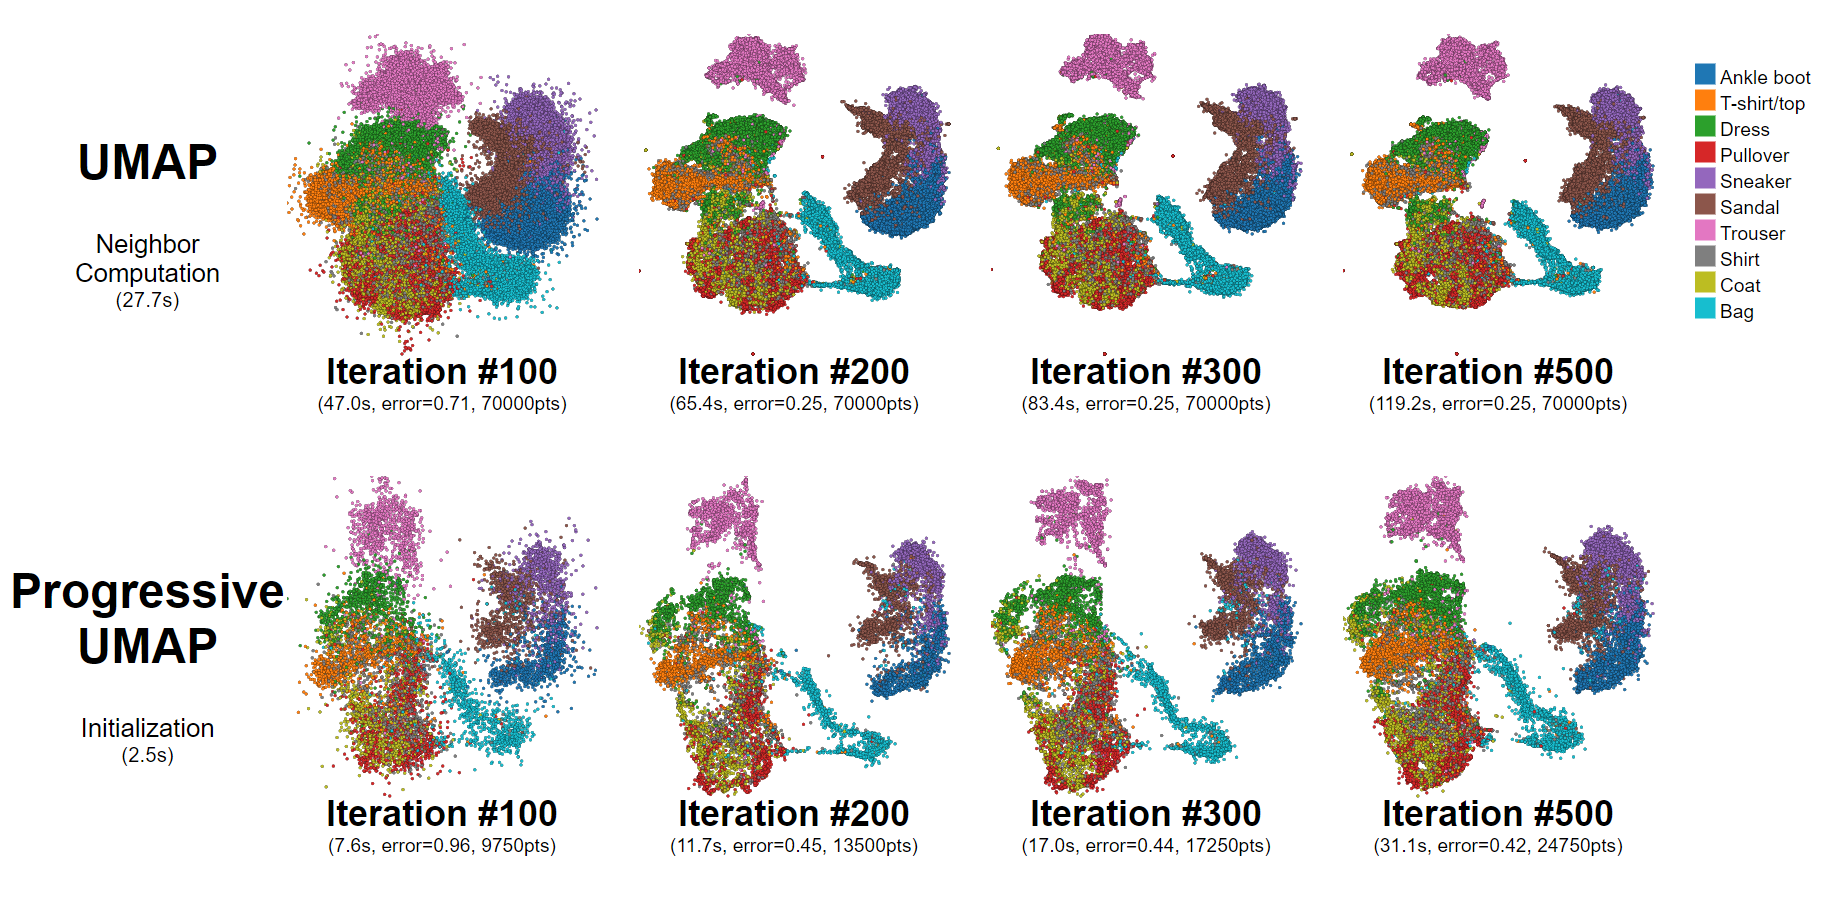
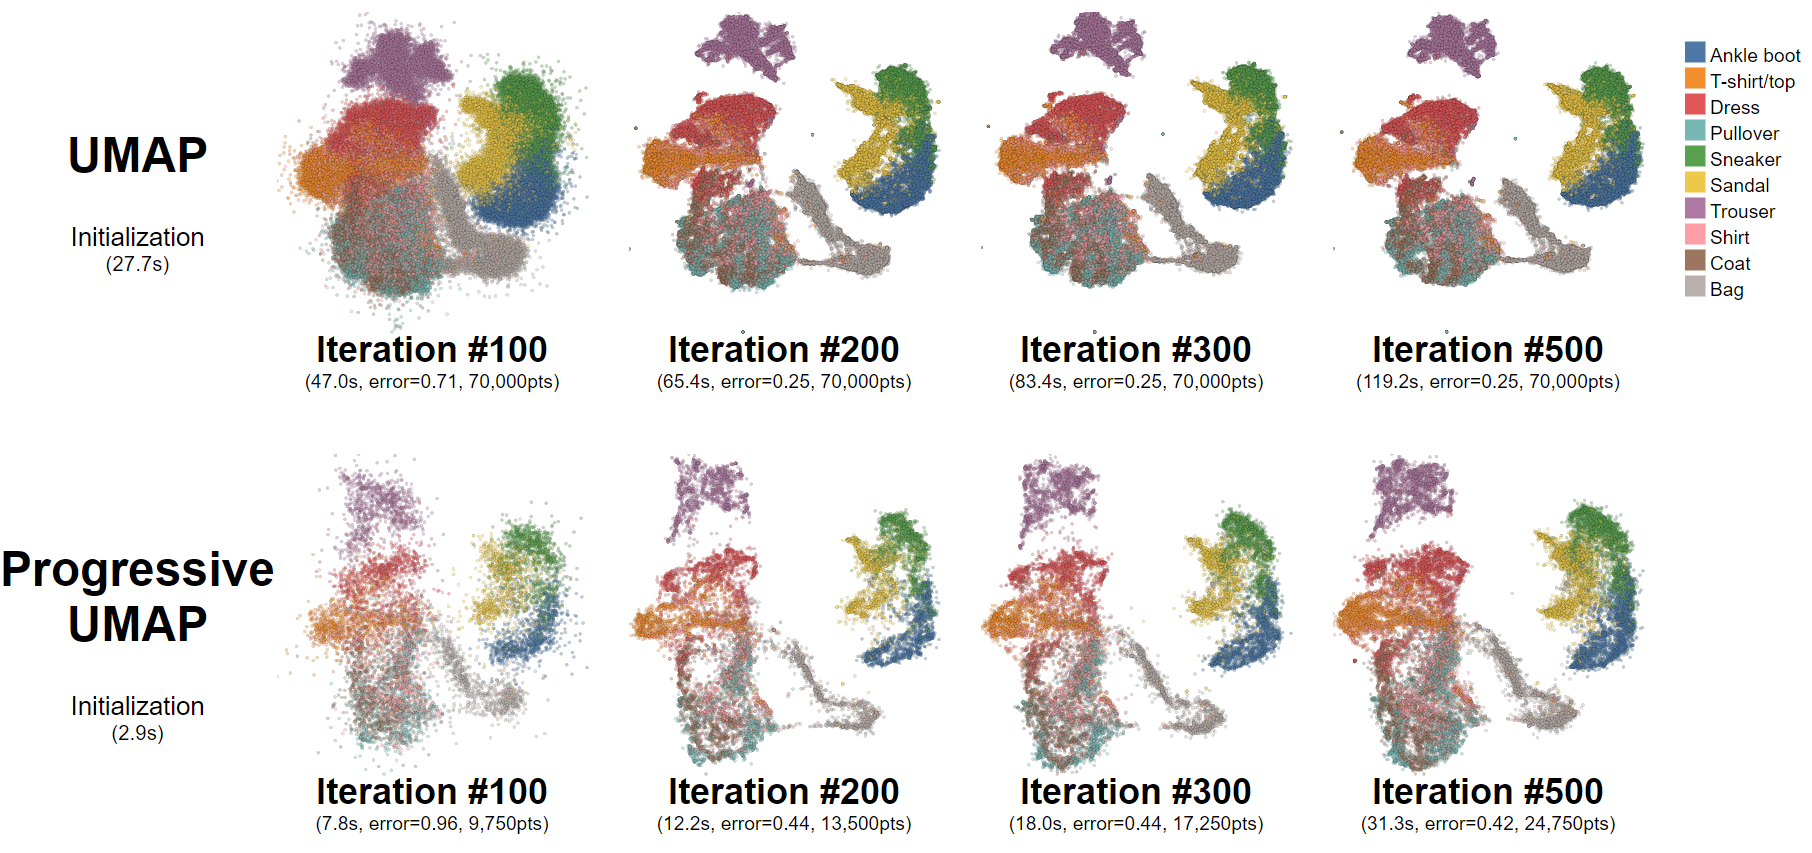
misc

diff --git a/result/compare_vis.html b/result/compare_vis.html
@@ -35,10 +35,9 @@
           UMAP
         </h2>
         <p>
-          Neighbor
+          Initialization
           <br>
-          Computation
-          <br><span style="font-size:0.8em">(<span id="umap_init"></span>s)</span>
+          <span style="font-size:0.8em">(<span id="umap_init"></span>s)</span>
         </p>
       </td>
       <td><svg id="umap100"></svg></td>
@@ -133,6 +132,7 @@
         .append('circle')
           .attr('r', 1.5)
           .style('fill', (d, i) => color(labels[i]))
+          .style('opacity', 0.4)
           .attr('stroke', 'black')
           .attr('stroke-width', '0.03px')
           .attr('cx', d => x(d.x1))
@@ -209,7 +209,7 @@
       .style('font-size', '1.2em')
       .style('font-family', 'Helvetica')
       .attr('transform', translate(width / 2, height + label_height + 28))
-      .text('(' + d3.format(',.1f')(time) + 's, error=' + d3.format('.2f')(error) + ', ' + numpts + 'pts)')
+      .text('(' + d3.format(',.1f')(time) + 's, error=' + d3.format('.2f')(error) + ', ' + d3.format(',')(numpts) + 'pts)')
 
   }
 

diff --git a/umap/umap_panene.py b/umap/umap_panene.py
@@ -2467,8 +2467,6 @@ class UMAP(BaseEstimator):
                     with open(os.path.join(os.getcwd(), 'result', _dname, 'pumap', 'log_fashion.csv'), 'a') as log:
                         log.write(f"size,epochs,time_taken,cost\n")
                         log.write(f"{self.table.size()},{self.epochs},{init_time.total_seconds()},{0}\n")
-            else:
-                self.batch_epochs = 2
 
             self.graph_ = self.graph_.tocoo() # type: csr_matrix to coo_matrix
             self.graph_.sum_duplicates()
